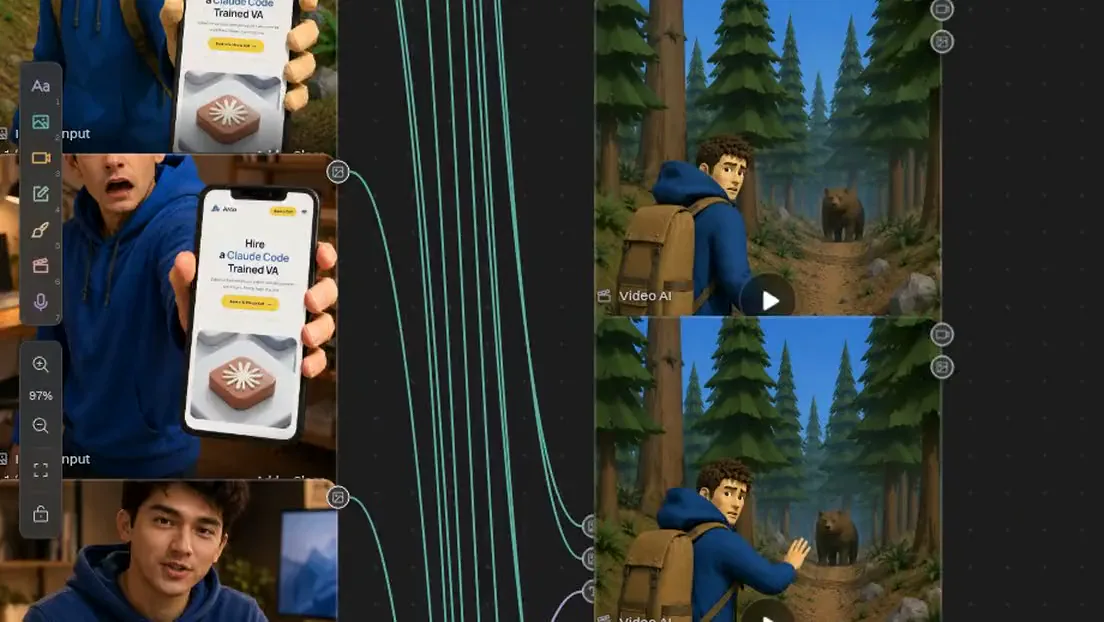
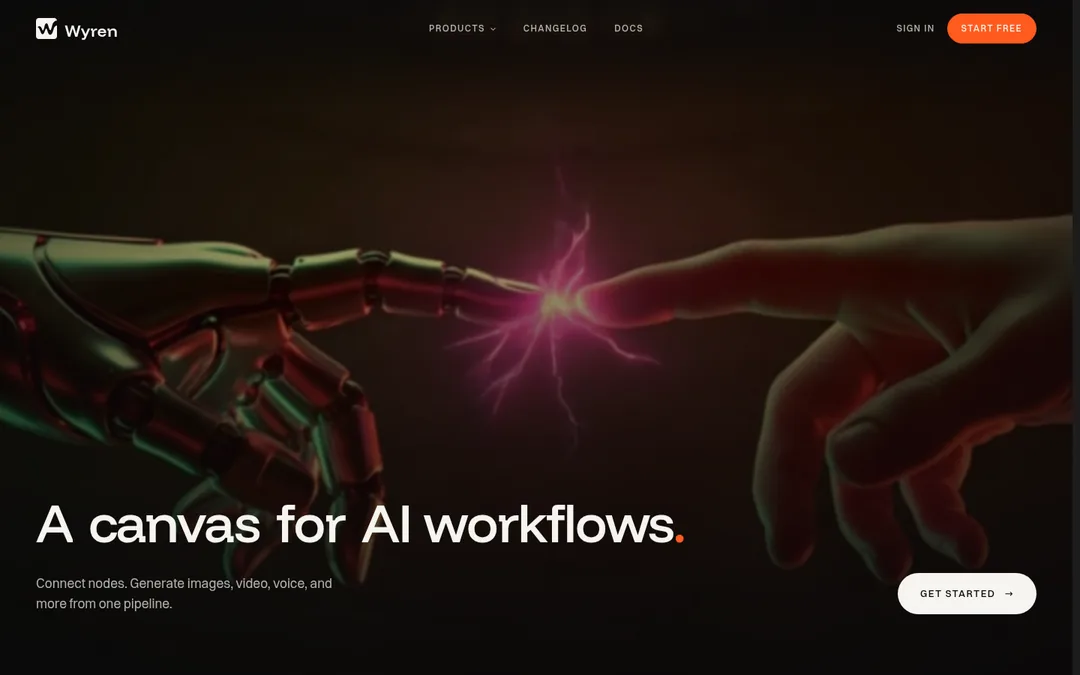
fix(projects): keep the product screenshot as the still, add a touch play control
Two corrections to the hover previews.

The still is the product screenshot again. It had been replaced with a
frame lifted out of the clip, which is not what the thumbnail is for —
the screenshot is the considered marketing shot of each product and it's
what most visitors will ever see. The clip now plays over it rather than
replacing it. Card aspect moved to 16:10 to match those screenshots
exactly, so the default state is never cropped.

Touch devices get an explicit play/pause button instead of autoplaying
in view, and the "hover to play" badge no longer appears where there is
no hover.

That required unpicking the card: it was one big <a> wrapping everything,
and a <button> cannot live inside an anchor — nor should "tap to play"
and "tap to open" fight over the same gesture. The card is an <article>
now, with the media block carrying a link overlay and the play control as
siblings. The button stops propagation, so tapping play never navigates;
anywhere else on the still still opens the project. `group` stays on the
article, so hover styling is unchanged.

The badge also moved to bottom-left, matching where the touch control
sits — one affordance, one location — and off Wyren's own CTA pill,
which it had been landing on.

Verified on an emulated iPhone 13 profile: hover media query false, play
button shown, tap plays, tap does not navigate, second tap pauses.

diff --git a/app/components/ProjectPreview.jsx b/app/components/ProjectPreview.jsx
@@ -2,30 +2,34 @@
 
 import { useCallback, useEffect, useRef, useState } from "react";
 import Image from "next/image";
-import { useInView } from "react-intersection-observer";
+import { Play, Pause } from "lucide-react";
 import { useReducedMotion } from "framer-motion";
 
 /**
- * The still is the poster; hover plays a walkthrough of the live product.
+ * The product screenshot is the still; the clip plays over it.
  *
  * The image stays mounted underneath rather than being swapped out, so there's
- * no flash of empty frame while the video decodes its first frame — the video
- * simply fades in on top once it's actually playing.
+ * no flash of empty frame while the video decodes — the video fades in on top
+ * once it's actually playing, and the still is what everyone sees by default.
  *
- * `preload="none"` matters: two 1MB clips that autoload would cost more than
- * the rest of the page combined, and most visitors will never hover either one.
- * The clip is fetched on intent (pointer enters the card) and not before.
+ * `preload="none"` matters: two clips that autoloaded would outweigh the rest
+ * of the page, and most visitors will never start either one. The clip is
+ * fetched on intent and not before.
  *
- * Hover is a pointer idiom, so touch devices get the poster plus an in-view
- * autoplay instead — there's no hover to wait for and no controls to hunt for.
+ * Two input models, because hover is not one:
+ *   - pointer devices  → hovering the card plays it
+ *   - touch devices    → an explicit play/pause button
+ *
+ * The link overlay and the play button are siblings, not nested. A <button>
+ * inside an <a> is invalid, and it also makes "tap to play" and "tap to open"
+ * fight over the same gesture. Here the button toggles playback and never
+ * navigates; anywhere else on the still opens the project.
  */
-export default function ProjectPreview({ src, poster, alt, priority }) {
+export default function ProjectPreview({ src, poster, alt, href, priority }) {
   const videoRef = useRef(null);
   const reduced = useReducedMotion();
   const [playing, setPlaying] = useState(false);
   const [canHover, setCanHover] = useState(true);
-
-  const { ref: inViewRef, inView } = useInView({ threshold: 0.55 });
 
   useEffect(() => {
     setCanHover(window.matchMedia("(hover: hover) and (pointer: fine)").matches);
@@ -45,17 +49,15 @@ export default function ProjectPreview({ src, poster, alt, priority }) {
     setPlaying(false);
   }, []);
 
-  // Touch devices have no hover to key off, so the clip runs while the card
-  // holds the screen and stops when it leaves.
-  useEffect(() => {
-    if (canHover || reduced) return;
-    if (inView) play();
-    else stop();
-  }, [canHover, inView, reduced, play, stop]);
+  const toggle = (e) => {
+    // Never let the control trigger the card's link.
+    e.preventDefault();
+    e.stopPropagation();
+    playing ? stop() : play();
+  };
 
   return (
     <div
-      ref={inViewRef}
       className="absolute inset-0"
       onPointerEnter={canHover ? play : undefined}
       onPointerLeave={canHover ? stop : undefined}
@@ -68,18 +70,6 @@ export default function ProjectPreview({ src, poster, alt, priority }) {
         priority={priority}
         className="object-cover object-top"
       />
-
-      {/* Only where a hover exists. On touch the clip plays itself once the
-          card holds the screen, so the badge would be both wrong and noise. */}
-      {canHover && !reduced && (
-        <div
-          className={`pointer-events-none absolute right-4 top-4 z-10 rounded-full border border-[rgba(243,239,238,0.25)] bg-ground/70 px-3 py-1.5 backdrop-blur-sm transition-opacity duration-500 ${
-            playing ? "opacity-0" : "opacity-100"
-          }`}
-        >
-          <span className="mono text-ink">hover to play</span>
-        </div>
-      )}
 
       {!reduced && (
         <video
@@ -95,6 +85,42 @@ export default function ProjectPreview({ src, poster, alt, priority }) {
             playing ? "opacity-100" : "opacity-0"
           }`}
         />
+      )}
+
+      {/* Click-through to the project. Sits above the media, below the
+          play control. */}
+      <a
+        href={href}
+        target="_blank"
+        rel="noreferrer"
+        aria-label={alt}
+        className="absolute inset-0 z-10"
+      />
+
+      {canHover && !reduced && (
+        <div
+          className={`pointer-events-none absolute bottom-4 left-4 z-20 rounded-full border border-[rgba(243,239,238,0.25)] bg-ground/70 px-3 py-1.5 backdrop-blur-sm transition-opacity duration-500 ${
+            playing ? "opacity-0" : "opacity-100"
+          }`}
+        >
+          <span className="mono text-ink">hover to play</span>
+        </div>
+      )}
+
+      {!canHover && !reduced && (
+        <button
+          type="button"
+          onClick={toggle}
+          aria-label={playing ? "Pause preview" : "Play preview"}
+          className="absolute bottom-4 left-4 z-20 flex items-center gap-2 rounded-full border border-[rgba(243,239,238,0.3)] bg-ground/80 py-2 pl-3 pr-4 backdrop-blur-sm active:scale-95 transition-transform"
+        >
+          {playing ? (
+            <Pause size={14} className="text-ink" fill="currentColor" />
+          ) : (
+            <Play size={14} className="text-ink" fill="currentColor" />
+          )}
+          <span className="mono text-ink">{playing ? "pause" : "play"}</span>
+        </button>
       )}
     </div>
   );

diff --git a/app/sections/Projects.jsx b/app/sections/Projects.jsx
@@ -1,9 +1,9 @@
 import React from "react";
-import ProjectPreview from "../components/ProjectPreview";
 import { ArrowUpRight } from "lucide-react";
 import projectList from "../utils/ProjectList";
 import Section from "../components/Section";
 import Reveal from "../components/animation/Reveal";
+import ProjectPreview from "../components/ProjectPreview";
 
 /**
  * Two projects, presented large.
@@ -13,47 +13,49 @@ import Reveal from "../components/animation/Reveal";
  * read as padding around a thin section. Two projects shown enormous reads as
  * confidence instead.
  *
+ * The card is an <article>, not one big <a>: the media block carries its own
+ * link overlay and its own play control, and those can't legally (or usably)
+ * nest inside an outer anchor. Hover styling still keys off `group` on the
+ * article, so hovering anywhere on the card still drives the whole thing.
+ *
  * Each panel wears its own brand colour rather than the section accent: these
  * are real products with real identities, and Wyren's orange and Arca's blue
  * are already the endpoints of the page's heat ramp.
  */
 function Project({ project, delay }) {
+  const href = project.prodLink || project.repoLink;
+  const alt = `${project.title} — ${project.subtitle}`;
+
   return (
     <Reveal type="up" delay={delay}>
-      <a
-        href={project.prodLink || project.repoLink}
-        target="_blank"
-        rel="noreferrer"
-        className="group block"
-        style={{ "--project": project.color }}
-      >
-        <div className="relative aspect-16/10 w-full overflow-hidden rounded-lg border border-[var(--line)] transition-colors duration-500 group-hover:border-[var(--project)] md:aspect-16/9">
+      <article className="group" style={{ "--project": project.color }}>
+        {/* 16:10 to match the product screenshots exactly — the still is the
+            default state, so it's the one that shouldn't be cropped. */}
+        <div className="relative aspect-16/10 w-full overflow-hidden rounded-lg border border-[var(--line)] transition-colors duration-500 group-hover:border-[var(--project)]">
           <ProjectPreview
             src={`/${project.previewPath}`}
             poster={`/${project.imagePath}`}
-            alt={`${project.title} — ${project.subtitle}`}
+            alt={alt}
+            href={href}
             priority={delay === 0}
           />
         </div>
 
-        {/* The title sits below the image, not on it. These are screenshots of
-            real products with their own headlines in them — an overlaid title
-            landed straight on top of Wyren's own hero copy. */}
         <div className="mt-7 grid gap-5 md:grid-cols-[1fr_220px] md:gap-12">
           <div>
-            <div className="flex items-baseline gap-3">
-              <h3
-                className="display-lg transition-opacity duration-500 group-hover:opacity-80"
-                style={{ color: project.color }}
-              >
-                {project.title}
-              </h3>
+            <a
+              href={href}
+              target="_blank"
+              rel="noreferrer"
+              className="inline-flex items-baseline gap-3 transition-opacity duration-500 hover:opacity-80"
+              style={{ color: project.color }}
+            >
+              <h3 className="display-lg">{project.title}</h3>
               <ArrowUpRight
                 size={24}
                 className="shrink-0 transition-transform duration-500 group-hover:translate-x-1 group-hover:-translate-y-1"
-                style={{ color: project.color }}
               />
-            </div>
+            </a>
 
             <div className="title ink-dim mt-3">{project.subtitle}</div>
             <p className="body ink-dim mt-4 max-w-[58ch]">{project.desc}</p>
@@ -65,7 +67,7 @@ function Project({ project, delay }) {
             ))}
           </div>
         </div>
-      </a>
+      </article>
     </Reveal>
   );
 }
